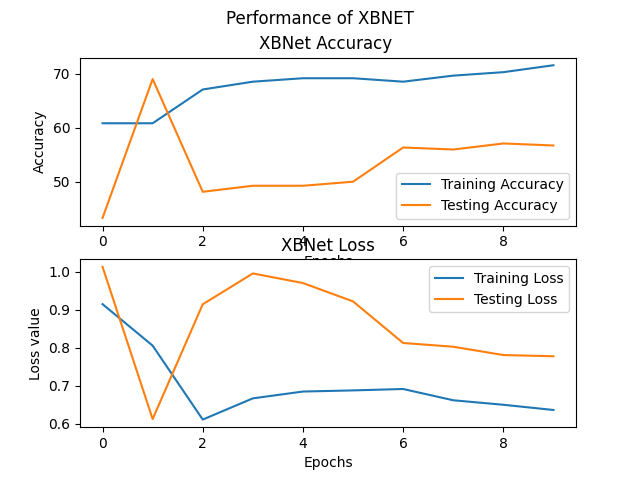
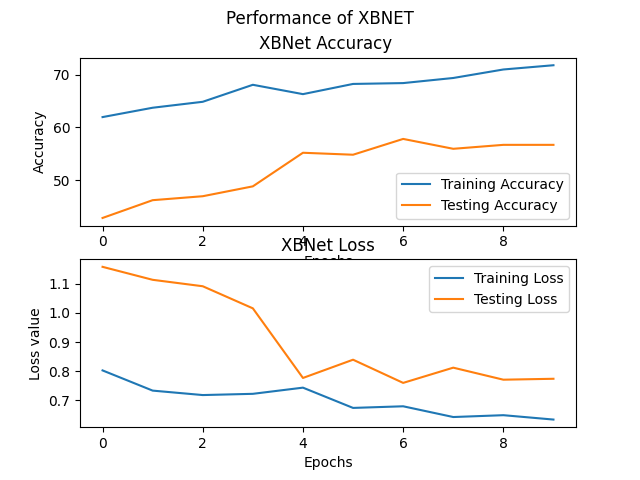
frontend 1.7

diff --git a/templates/results.html b/templates/results.html
@@ -1,0 +1,20 @@
+{% extends "base.html" %}
+{% block content %}
+<div class="col-md-12">
+    <div class="container" style="color: white;">
+        <div class="card">
+            <div class="card-title"><h3>Results</h3>
+                <div class="card-body">
+                    <img src="D:\ModelMaker\Training_graphs.png">
+                </div>
+                <div class="card-footer">
+                    <h4>Training accuracy is {{info['training_acc']}}</h4><br>
+                    <h4>Testing accuracy is {{info['testing_acc']}}</h4>
+                </div>
+            </div>
+        </div>
+    </div>
+</div>
+
+
+{% endblock %}

diff --git a/app.py b/app.py
@@ -75,7 +75,8 @@ def getlayers():
                 layers_dims.append(int(request.form["o" + str(i)]))
             print(layers_dims)
             train()
-            return render_template('layers.html', layers=layers)
+            return render_template("results.html",info={"training_acc":acc[-1],"testing_acc":val_ac[-1]})
+
         elif (model_name == "xgboost" or model_name == "randomforest"
               or model_name == "decision tree" or model_name == "lightgbm"):
             for i in request.form.keys():
@@ -85,7 +86,7 @@ def getlayers():
                     layers_dims.append(float(request.form[i]))
             print(layers_dims)
             train()
-            return render_template('treesinp.html', layers=layers) #3 to test
+            return render_template("results.html",info={"training_acc":training_acc,"testing_acc":testing_acc})
     
 @app.route('/default', methods=['GET', 'POST'])
 def default():
@@ -133,7 +134,8 @@ def process_input():
 
 
 def train():
-    global model_tree, model_trained
+    global model_tree, model_trained, acc, val_ac
+    
     X_train, X_test, y_train, y_test = train_test_split(x_data, y_data,
                                                         test_size=0.3, random_state=0)
     if model_name == "xbnet" or model_name =="neural network":
@@ -153,6 +155,7 @@ def train():
                                     str(max(acc))[:4]+ ".pt",)
         # toast("Test Accuracy is: " +str(max(val_ac))[:4] +" and Training Accuracy is: " +
         #             str(max(acc))[:4] + " and model is saved.",duration= 10)
+        return render_template("results.html",info={"training_acc":acc,"testing_acc":val_ac})
 
     elif (model_name == "xgboost" or model_name == "randomforest"
               or model_name == "decision tree" or model_name == "lightgbm"):
@@ -194,7 +197,6 @@ def train():
         with open(model_name+"_testAccuracy_" +str(testing_acc)[:4] +"_trainAccuracy_" +
                                     str(training_acc)[:4]+ ".pkl", 'wb') as outfile:
             pickle.dump(model_tree,outfile)
-        
 @app.route('/predict', methods=['GET', 'POST'])
 def predict_results():
     df_predict = pd.read_csv(request.files["csvpredictfile"])
